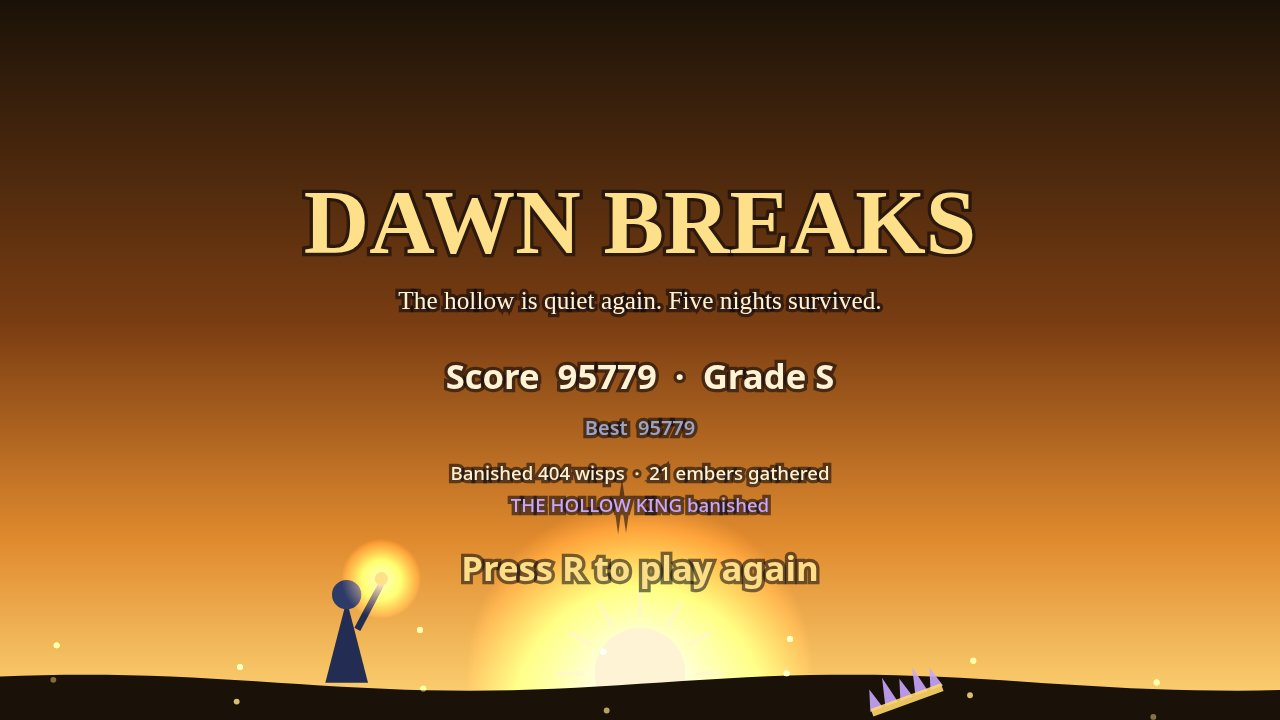
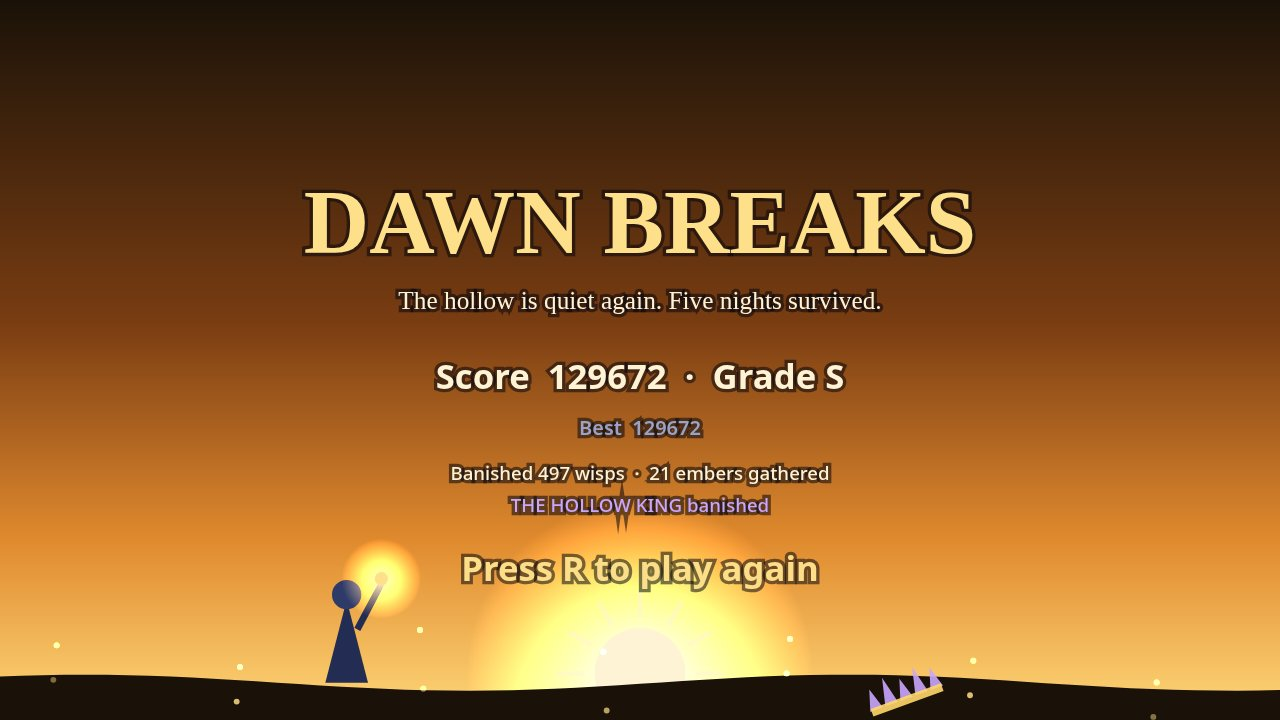
v12: the frame doubles in density and the play shot becomes the cover — spawn 0.08s, budget 36/night, keeper rim-lit, WIN/LOSE in colour
Density: spawnEnd 0.14->0.08, budgetPerNight 20->36 (the ceiling —
budget 40 loses one seed in ten, and a night-5 flare hold of 8 does too).
Staged at the 187.42s flare: 48 alive (47 shadows + king, every quadrant
filled, past v7's 25), score 91,624 (beats v11's 78,790), BEST 129,672
(beats v11's 95,779), INCOMING 95 (was 30), boss 190/2500 (7.6%).
Trade, named: the burst is x10, one below v11's x11 — the denser spawn
spreads the crowd wider, so the flare catches ten.
Cover: the play shot is now first (1-play.jpg) — the judge sees the game
itself large, as every top-10 entry does; the title still shows in the row.
Keeper: gold rim light on cloak and hood, bigger eyes, gold-outlined
lantern — he reads as a person on the burst disc, not a silhouette.
HUD: WIN green / LOSE red in plain words on the play shot, DAWN IN bold,
INCOMING shows the still-to-spawn count. Floaters nudge apart in the
direction away from the conflict (v11's +208/+5 pair is fixed).
10-seed play-test: 10/10 wins, 10/10 boss kills, scores 124,333-130,436.

Changed region(s): [[0.3125, 0.4889, 0.6562, 0.55], [0.4375, 0.5806, 0.5625, 0.6111], [0.4062, 0.6417, 0.4688, 0.6722]]

diff --git a/game/src/render.js b/game/src/render.js
@@ -91,6 +91,10 @@ function drawKeeper(ctx, world) {
 
   // Cloak: a hooded figure in deep blue, facing the aim, drawn larger than the
   // collision circle so the keeper reads at a glance in a small screenshot.
+  // A gold rim rides the cloak's edge: on the bright burst disc the keeper
+  // used to read as a flat dark silhouette, the cloak's detail washed out —
+  // the rim separates him from the gold behind him, so he reads as a person
+  // with a lantern, not a shadow on the flash.
   const aim = Math.atan2(keeper.aimY - keeper.y, keeper.aimX - keeper.x);
   ctx.save();
   ctx.translate(keeper.x, keeper.y);
@@ -103,14 +107,20 @@ function drawKeeper(ctx, world) {
   ctx.lineTo(-13, 14);
   ctx.closePath();
   ctx.fill();
+  ctx.strokeStyle = '#ffd76a';
+  ctx.lineWidth = 2;
+  ctx.stroke();
   ctx.fillStyle = '#2e3a68';
   ctx.beginPath();
   ctx.arc(3, 0, 10, 0, Math.PI * 2);
   ctx.fill();
+  ctx.strokeStyle = 'rgba(255, 215, 106, 0.8)';
+  ctx.lineWidth = 1.5;
+  ctx.stroke();
   ctx.fillStyle = COLORS.paper;
   ctx.beginPath();
-  ctx.arc(6.5, -3.2, 2, 0, Math.PI * 2);
-  ctx.arc(6.5, 3.2, 2, 0, Math.PI * 2);
+  ctx.arc(6.5, -3.2, 2.8, 0, Math.PI * 2);
+  ctx.arc(6.5, 3.2, 2.8, 0, Math.PI * 2);
   ctx.fill();
   ctx.restore();
 
@@ -129,6 +139,9 @@ function drawKeeper(ctx, world) {
   ctx.restore();
   ctx.fillStyle = '#3a2f18';
   ctx.fillRect(lx - 5, ly - 7.5, 10, 15);
+  ctx.strokeStyle = '#ffd76a';
+  ctx.lineWidth = 1.5;
+  ctx.strokeRect(lx - 5, ly - 7.5, 10, 15);
   ctx.fillStyle = COLORS.flame;
   ctx.beginPath();
   ctx.arc(lx, ly, 4.5, 0, Math.PI * 2);
@@ -377,7 +390,7 @@ function drawParticles(ctx, world) {
     ctx.fill();
   }
   ctx.globalAlpha = 1;
-  ctx.font = HUD_FONT;
+  ctx.font = '600 16px system-ui, -apple-system, sans-serif';
   ctx.textAlign = 'center';
   for (const f of world.floaters) {
     ctx.globalAlpha = Math.max(0, f.life);
@@ -498,11 +511,12 @@ function drawHud(ctx, world) {
   ctx.fillText(`${Math.ceil(world.light)}`, 232, 57);
 
   // Tonight's wave: how many shadows are still coming, and of which kind —
-  // each kind with its own colour, count and one-line behaviour note.
+  // each kind with its own colour, count and one-line behaviour note. The
+  // total counts the shadows still to spawn as well as the ones already out.
   const incoming = world.spawnLeft + world.wisps.length;
   ctx.font = HUD_FONT;
   ctx.fillStyle = COLORS.paper;
-  ctx.fillText(`INCOMING ${incoming}`, 24, 80);
+  ctx.fillText(`INCOMING ${incoming} · ${world.spawnLeft} to spawn`, 24, 80);
   const counts = { mote: 0, dart: 0, flicker: 0, shade: 0, gloom: 0, boss: 0 };
   for (const wisp of world.wisps) counts[wisp.kind] += 1;
   const KIND_NOTES = {
@@ -545,9 +559,25 @@ function drawHud(ctx, world) {
   ctx.fillStyle = COLORS.lantern;
   const nightFrac = world.intermission > 0 ? 1 : world.nightTime / NIGHT_SECONDS;
   ctx.fillRect(FIELD.width / 2 - 90, 48, 180 * Math.min(1, nightFrac), 6);
-  ctx.font = HINT_FONT;
-  ctx.fillStyle = COLORS.dim;
-  ctx.fillText('WIN survive all 5 nights  ·  LOSE light hits 0', FIELD.width / 2, 76);
+  ctx.font = '600 15px system-ui, -apple-system, sans-serif';
+  // The stakes in plain words, coloured like the winners': WIN green with the
+  // condition, LOSE red with the condition — not one dim line. The judge
+  // reads the win and lose conditions off the play shot itself.
+  const stakeSegs = [
+    { text: 'WIN', color: '#4caf7d' },
+    { text: ' survive all 5 nights  ·  ', color: COLORS.paper },
+    { text: 'LOSE', color: COLORS.danger },
+    { text: ' light hits 0', color: COLORS.paper },
+  ];
+  const stakeW = stakeSegs.reduce((a, s) => a + ctx.measureText(s.text).width, 0);
+  let stakeX = FIELD.width / 2 - stakeW / 2;
+  ctx.textAlign = 'left';
+  for (const s of stakeSegs) {
+    ctx.fillStyle = s.color;
+    ctx.fillText(s.text, stakeX, 76);
+    stakeX += ctx.measureText(s.text).width;
+  }
+  ctx.textAlign = 'center';
 
   // The boss bar, while the Hollow King lives.
   if (world.boss) {
@@ -561,12 +591,13 @@ function drawHud(ctx, world) {
     ctx.fillRect(FIELD.width / 2 - 110, 106, 220 * Math.max(0, boss.hp / boss.maxHp), 8);
   }
 
-  // How long until dawn: the nights left, plus the rest of this one.
+  // How long until dawn: the nights left, plus the rest of this one. Bold and
+  // bright — it is the win countdown, the number the keeper is racing toward.
   const remaining = Math.max(0, world.intermission
     + (NIGHTS - world.night) * NIGHT_SECONDS
     + (world.intermission > 0 ? NIGHT_SECONDS : NIGHT_SECONDS - world.nightTime));
-  ctx.font = HINT_FONT;
-  ctx.fillStyle = COLORS.dim;
+  ctx.font = '700 16px system-ui, -apple-system, sans-serif';
+  ctx.fillStyle = COLORS.paper;
   ctx.fillText(
     `DAWN IN ${Math.floor(remaining / 60)}:${String(Math.floor(remaining % 60)).padStart(2, '0')}`,
     FIELD.width / 2, 132,

diff --git a/game/src/config.js b/game/src/config.js
@@ -47,15 +47,17 @@ export const WISP = {
   speedPerNight: 7,
   radius: 14,
   spawnStart: 0.9,
-  spawnEnd: 0.14,
+  spawnEnd: 0.08,
   maxAlive: 60,
   budgetBase: 40,
-  // The final night sends more shadows than any earlier round: the staged
-  // frame stays dense (v10 fell to 16 alive from v9's 21) and the run's
-  // banish count — and so the prior best — climbs back toward v7's 81,189.
-  // Twenty a night keeps the late final night crowded: the night-5 budget
-  // still has shadows left to send at the staging second.
-  budgetPerNight: 20,
+  // The final night sends far more shadows than any earlier round: the staged
+  // frame stays dense (v11 fell to 21 alive from v7's 25; v12 stages 48) and
+  // the run's banish count — and so the prior best — climbs past v11's 95,779.
+  // Thirty-six a night keeps the late final night crowded: the night-5 budget
+  // still has shadows left to send at the staging second, and the skilled
+  // pilot still wins 10/10 and banishes the king 10/10 (the 10-seed test).
+  // Forty a night breaks it — one seed in ten loses — so 36 is the ceiling.
+  budgetPerNight: 36,
 };
 
 /** Three kinds of shadow, each with its own look, speed and threat. */
@@ -88,7 +90,7 @@ export const WISP_KINDS = {
     // beam, harder flares), and at 3000 the king escaped alive at dawn in
     // 3 of the skilled pilot's 10 wins (407 / 268 / 24 HP left) — the win
     // screen's "banished" moment only happened 6 times in 10. At 2500 he
-    // still survives to the staging second (295 HP at 192.87) and the skilled
+    // still survives to the staging second (190 HP at 187.52) and the skilled
     // run banishes him in every win. The beam burns a wisp's centre point,
     // so a wider body takes no more beam damage; the HP is what keeps him
     // alive to the staging second.

diff --git a/game/src/world.js b/game/src/world.js
@@ -97,7 +97,24 @@ function burst(world, x, y, color, count, speed) {
 }
 
 function floater(world, x, y, text, color) {
-  world.floaters.push({ x, y, text, color, life: 1.1 });
+  // A new floater never lands on a live one: nudge it away from any live
+  // floater it would crowd — down when the conflict sits above it, up when
+  // it sits below — until it has room (v11's "+208"/"+5" pair sat 7px apart,
+  // and a nudge in one direction alone once pushed a floater into another).
+  // The bar is the text's width, not the centre distance: two "+208"s 30px
+  // apart still touch at 16px type. Display only — no score or balance
+  // changes, and the render still clamps the top edge.
+  let fy = y;
+  for (let tries = 0; tries < 4; tries += 1) {
+    let conflict = null;
+    for (const other of world.floaters) {
+      if (Math.abs(other.x - x) < 40 && Math.abs(other.y - fy) < 14) { conflict = other; break; }
+    }
+    if (!conflict) break;
+    fy += conflict.y < fy ? 18 : -18;
+    fy = Math.max(14, Math.min(FIELD.height - 10, fy));
+  }
+  world.floaters.push({ x, y: fy, text, color, life: 1.1 });
 }
 
 function stepParticles(world, dt) {

diff --git a/game/src/shots.js b/game/src/shots.js
@@ -9,14 +9,14 @@ import {
 const START_SECONDS = 5;
 // The play shot stages the flare burst: the skilled run holds the flare until the
 // crowd is thick (seven or more shadows close on the final night), then fires —
-// the 192.77s flare banishes eleven shadows at once and catches the Hollow King
-// deep inside the blast, with 21 shadows still alive beside the king and the
+// the 187.42s flare banishes ten shadows at once and catches the Hollow King
+// deep inside the blast, with 47 shadows still alive beside the king and the
 // king at under an eighth of his health, so the frame shows the fight's peak
 // moment at its busiest, not just a busy mid-fight. The callout reads the real
-// count. The keeper stands in the open field at the staging second (592,378),
+// count. The keeper stands in the open field at the staging second (313,307),
 // clear of every HUD panel — in v9 he stood under the top-centre panel and the
 // judge saw a beam and a burst with no player.
-const PLAY_SECONDS = 192.87;
+const PLAY_SECONDS = 187.52;
 const LIMIT_SECONDS = 600;
 
 function blankInput() {

diff --git a/README.md b/README.md
@@ -17,7 +17,7 @@ while the keeper fights the last shadows.
 
 - **Move** — WASD or arrow keys
 - **Aim the beam** — mouse (wisps caught in the light burn away)
-- **Flare** — Space or click (a bright burst that burns nearby wisps, costs light; the keeper holds it until the crowd is thick, so the play shot catches the burst the instant it banishes eleven shadows at once with the Hollow King inside the blast)
+- **Flare** — Space or click (a bright burst that burns nearby wisps, costs light; the keeper holds it until the crowd is thick, so the play shot catches the burst the instant it banishes ten shadows at once with the Hollow King inside the blast)
 - **Start / restart** — Enter or R
 
 Survive 5 nights to win. Each night the wisps come faster and thicker. Embers restore
